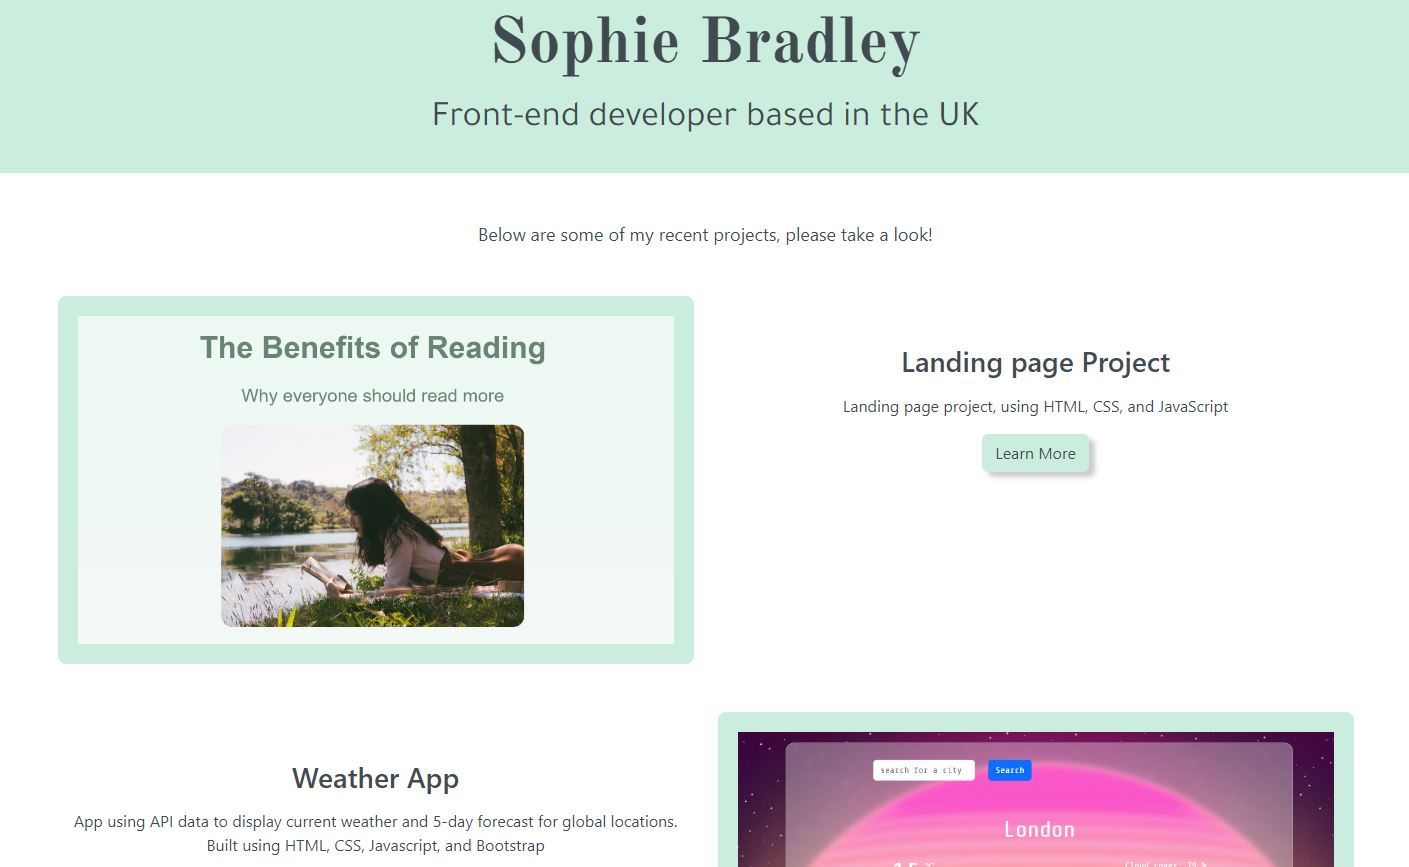
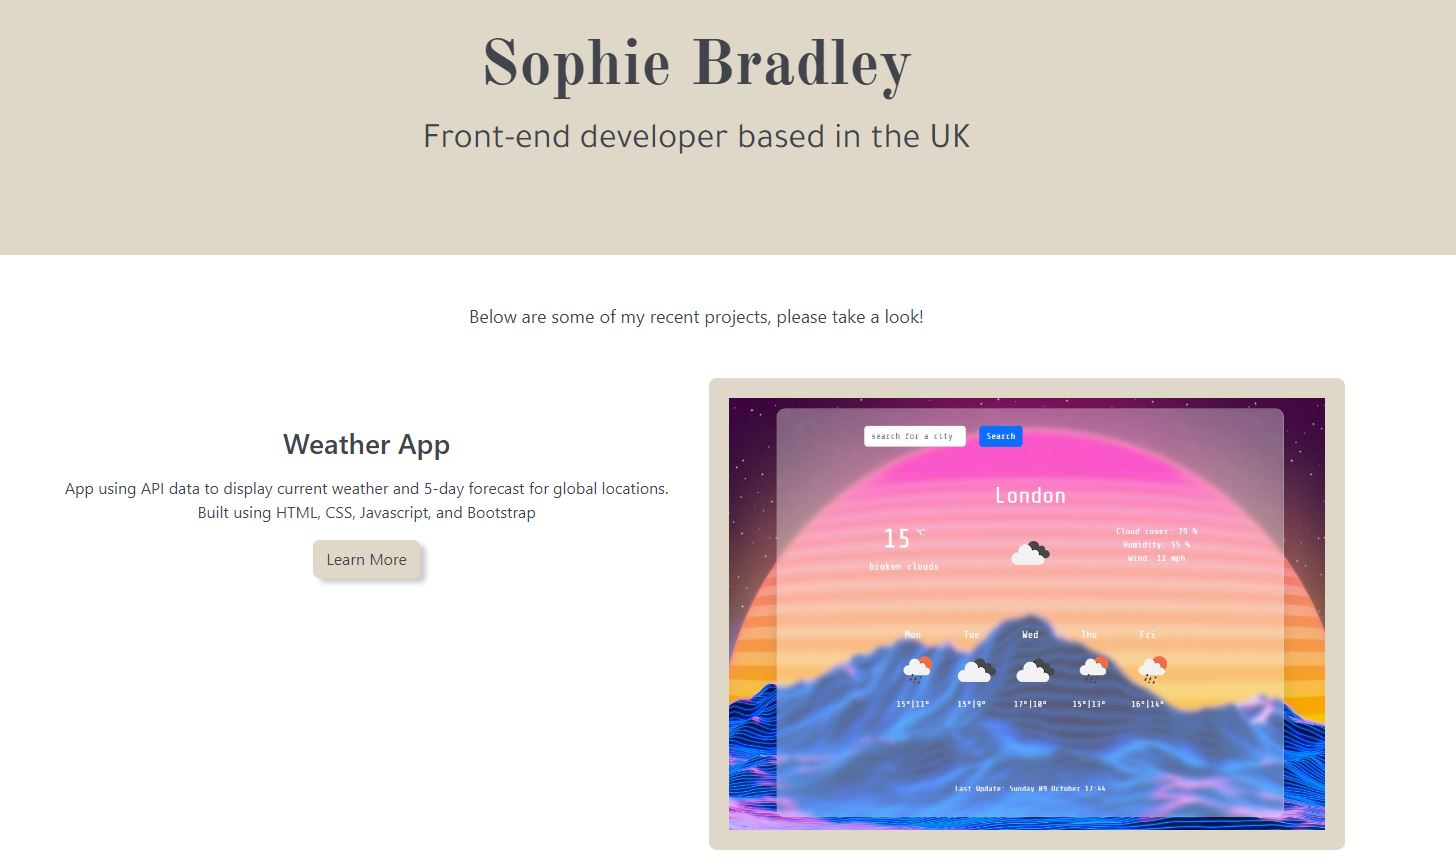
Added about page, styled in CSS/with Bootstrap, changed project colour scheme

diff --git a/about.html b/about.html
@@ -27,7 +27,7 @@
       src="https://kit.fontawesome.com/59f3e6c770.js"
       crossorigin="anonymous"
     ></script>
-    <title>Sophie Bradley | Homepage</title>
+    <title>Sophie Bradley | About</title>
   </head>
   <body>
     <nav class="navbar fixed-top navbar-expand-lg navbar-branding">
@@ -50,14 +50,14 @@
           <ul class="navbar-nav">
             <li class="nav-item">
               <a
-                class="nav-link active nav-menu"
+                class="nav-link nav-menu"
                 aria-current="page"
                 href="/index.html"
                 >Home</a
               >
             </li>
             <li class="nav-item">
-              <a class="nav-link nav-menu" href="/about.html">About</a>
+              <a class="nav-link nav-menu active" href="/about.html">About</a>
             </li>
             <li class="nav-item">
               <a class="nav-link nav-menu" href="#">Projects</a>
@@ -69,65 +69,46 @@
         </div>
       </div>
     </nav>
-
-    <div class="hero mb-5">
-      <h1>Sophie Bradley</h1>
-      <h2>Front-end developer based in the UK</h2>
+    <div class="container about-heading">
+      <h1>About Sophie Bradley</h1>
+      <h2>Front-end developer based in Cornwall, UK</h2>
     </div>
-
-    <p class="mb-5 intro-p">
-      Below are some of my recent projects, please take a look!
-    </p>
-    <div class="container">
+    <div class="container mt-5 mb-5 d-flex">
       <div class="row">
-        <div class="col d-none d-lg-block">
-          <img
-            src="/images/portfolio img.JPG"
-            alt="image of portfolio app"
-            class="img-fluid project-image mb-5"
-          />
-        </div>
-        <div class="col project-info mt-5">
-          <h3>Personal Portfolio</h3>
-          <p class="mt-3">
-            Personal portfolio project. Built using HTML, CSS, and Bootstrap.
-            Built to be responsive and SEO friendly.
+        <div class="col-md-6">
+          <p class="about-me">
+            👋 Hi! I'm Sophie, a front-end web-developer from Cornwall in the
+            UK. I worked for several years in the clinical trials industry until
+            I found a passion for coding and front-end development.
+            <br />
+            <br />
+            After trying out some free coding tutorials online I realised I
+            wanted to learn more, and in August 2022 I enrolled in my first
+            workshop with SheCodes - SheCodes Basic.
+            <br />
+            <br />
+            After completing the SheCodes Basic workshop I quickly moved on to
+            the SheCodes Plus workshop in September 2022 followed by SheCodes
+            Responsive in October 2022.
+            <br />
+            <br />
+            I have found something I absolutely love to do, coding and front-end
+            development is so much fun and so challenging too! I can't wait to
+            continue my coding journey, to learn more, and work with some
+            amazing people who share my passion for coding!
+            <br />
           </p>
-          <a href="#" class="btn btn-branding">Learn More</a>
-        </div>
-      </div>
-
-      <div class="row">
-        <div class="col project-info mt-5">
-          <h3>Weather App</h3>
-          <p class="mt-3">
-            App using API data to display current weather and 5-day forecast for
-            global locations. Built using HTML, CSS, Javascript, and Bootstrap
+          <p class="text-center">
+            Visit my <a href="#">contact page</a> to get in touch with me 😄
           </p>
-          <a href="#" class="btn btn-branding">Learn More</a>
         </div>
-        <div class="col d-none d-lg-block">
+        <div class="col-md-6">
           <img
-            src="/images/weather app img.JPG"
-            alt="image of weather app"
-            class="img-fluid project-image mb-5"
+            src="/images/about img.jpg"
+            alt="Photo of Sophie Bradley"
+            title="Sophie Bradley"
+            class="img-fluid about-image"
           />
-        </div>
-      </div>
-      <div class="row">
-        <div class="col d-none d-lg-block">
-          <img
-            src="/images/landing page img.JPG"
-            alt="image of reading app"
-            class="img-fluid project-image mb-5"
-          />
-        </div>
-        <div class="col project-info mt-5">
-          <h3>Landing page Project</h3>
-          <p class="mt-3">
-            Landing page project, using HTML, CSS, and JavaScript
-          </p>
-          <a href="#" class="btn btn-branding">Learn More</a>
         </div>
       </div>
     </div>

diff --git a/css/styles.css b/css/styles.css
@@ -1,19 +1,23 @@
 /*.first-color { 
-	background: #414a50; FONT COLOUR
+	background: #cabfab; 
 }
+	
 .second-color { 
-	background: #85a6b1; 
+	background: #dfd8c8; MAIN COLOR
 }
+
 .third-color { 
-	background: #8bd7d1; 
+	background: #41444b; FONT COLOR
 }
+
 .fourth-color { 
-	background: #caedde; MAIN COLOUR
+	background: #52575d; 
+}
 }*/
 
 :root {
-  --main-color: #caedde;
-  --font-color: #414a50;
+  --main-color: #dfd8c8;
+  --font-color: #41444b;
   --heading-font: "Old Standard TT", serif;
   --default-font: "Tajawal", sans-serif;
 }
@@ -41,20 +45,23 @@ h2 {
 
 .nav-name {
   font-family: var(--heading-font);
+  color: var(--font-color);
   font-size: 28px;
 }
 
 .nav-menu {
   font-family: var(--default-font);
+  color: var(--font-color);
   font-size: 20px;
 }
 
 .nav-menu:hover {
   font-weight: 500;
+  color: var(--font-color);
 }
 
 .hero {
-  padding: 90px 0px;
+  padding: 90px 0px 60px 0px;
   text-align: center;
   background-color: var(--main-color);
 }
@@ -88,6 +95,31 @@ h2 {
   color: var(--main-color);
 }
 
+.about-heading {
+  text-align: center;
+  margin-top: 90px;
+}
+
+.about-heading h1 {
+  font-size: 52px;
+}
+
+.about-heading h2 {
+  font-size: 32px;
+  opacity: 0.7;
+}
+
+.about-me {
+  text-align: justify;
+}
+
+.about-image {
+  display: block;
+  max-width: 500px;
+  border-radius: 8px;
+  margin: 0 auto;
+}
+
 @media (max-width: 900px) {
   h1 {
     font-size: 40px;
@@ -111,5 +143,22 @@ h2 {
 
   .intro-p {
     margin: 0px 20px;
+  }
+
+  .about-heading h1 {
+    font-size: 44px;
+  }
+
+  .about-heading h2 {
+    font-size: 28px;
+  }
+
+  .about-me {
+    text-align: center;
+  }
+
+  .about-image {
+    margin: 20px auto;
+    max-width: 300px;
   }
 }
